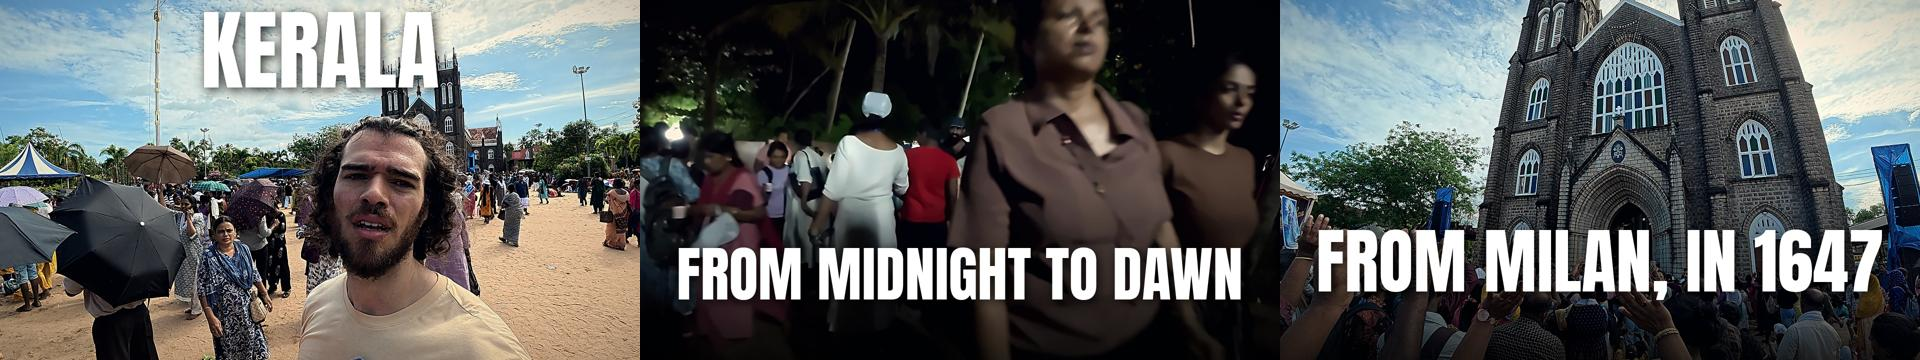
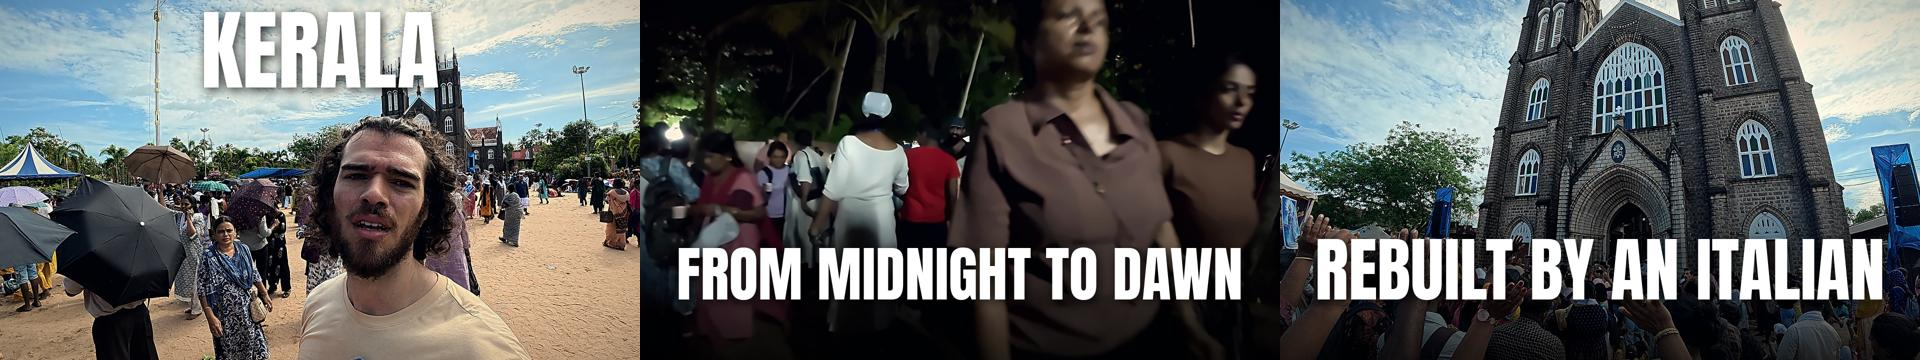
Copy: arthunkal, statua non filmata: titolo, M3 e teaser nuovi
Claude-Session: https://claude.ai/code/session_01HtfbgyG3AZWwU6Vz6254eE

Changed region(s): [[0.6875, 0.6111, 1.0, 0.8556]]

diff --git a/copioni/arthunkal_miniature/v4.py b/copioni/arthunkal_miniature/v4.py
@@ -1,5 +1,5 @@
 # Miniature arthunkal v4 (Copy, 17/11, rifacimento): Manuel dentro la scena con il posto enorme (stile "MUMBAI" di
-# Progetto Happiness), la folla di notte, la basilica della statua di Milano. Usa make() di miniature_v3.py.
+# Progetto Happiness), la folla di notte, la basilica ricostruita da un gesuita italiano. Usa make() di miniature_v3.py.
 #   python3 copioni/arthunkal_miniature/v4.py   (girato in work/arth/raw)
 import sys; sys.path.insert(0, 'copioni/miniature_v3')
 import miniature_v3 as M
@@ -9,7 +9,7 @@ def c(n): return R + next(f for f in __import__('os').listdir(R) if f'_{n}_' in 
 J = [
  ('M1_manuel_kerala', c('0309'), 0.4, .33, .45, 1.1, 'dietro', {'it': 'KERALA', 'en': 'KERALA'}, False),
  ('M2_notte',        c('0237'), 1.2, .45, .5, 1.1, 'riga', {'it': 'DA MEZZANOTTE ALL\'ALBA', 'en': 'FROM MIDNIGHT TO DAWN'}, True),
- ('M3_milano',       c('0302'), 1.0, .5, .42, 1.0, 'riga', {'it': 'DA MILANO, NEL 1647', 'en': 'FROM MILAN, IN 1647'}, False),
+ ('M3_basilica',       c('0302'), 1.0, .5, .42, 1.0, 'riga', {'it': 'RICOSTRUITA DA UN ITALIANO', 'en': 'REBUILT BY AN ITALIAN'}, False),
 ]
 for name, src, t, cx, cy, z, lay, txt, night in J:
     for lang in ('it', 'en'):

diff --git a/copioni/arthunkal_pacchetto.md b/copioni/arthunkal_pacchetto.md
@@ -186,3 +186,11 @@ Consigliata la 1: corta, chiara, sta nei 4-5 s della sigla e riprende il payoff 
 | Cibo gratis | Cibo e acqua gratis per chi cammina 13 km 🇮🇳 | CIBO GRATIS | le mani che passano cibo o acqua |
 | La pellegrina | 13 km di notte: «Lì succedono tanti miracoli» 🇮🇳 | «TANTI MIRACOLI» | lei che cammina tra la folla |
 Didascalie e descrizioni: quando Montaggio ha i montati. Pacchetto del lungo (descrizione con link, capitoli, sottotitoli): sui tempi del nuovo montato.
+
+### Aggiornamento 18/11 (Manuel: la statua NON è stata filmata)
+- Titolo consigliato nuovo: 13 KM A PIEDI, DI NOTTE: migliaia di pellegrini sulla costa del Kerala, India 🇮🇳
+  (EN: 13 KM ON FOOT, AT NIGHT: thousands of pilgrims on the coast of Kerala, India 🇮🇳). Milano e il 1647 restano nel video
+  (VO e linea del tempo), non nella promessa: la statua non si vede.
+- Miniatura 3: M3_basilica "RICOSTRUITA DA UN ITALIANO" (en "REBUILT BY AN ITALIAN"), al posto di M3_milano (in vecchie/ su Drive).
+- Teaser: "Una chiesa in India ricostruita da un gesuita italiano nel 1584 🇮🇳", unica scritta "UN ITALIANO, 1584", primo secondo
+  la basilica con la folla e Manuel in camera.
